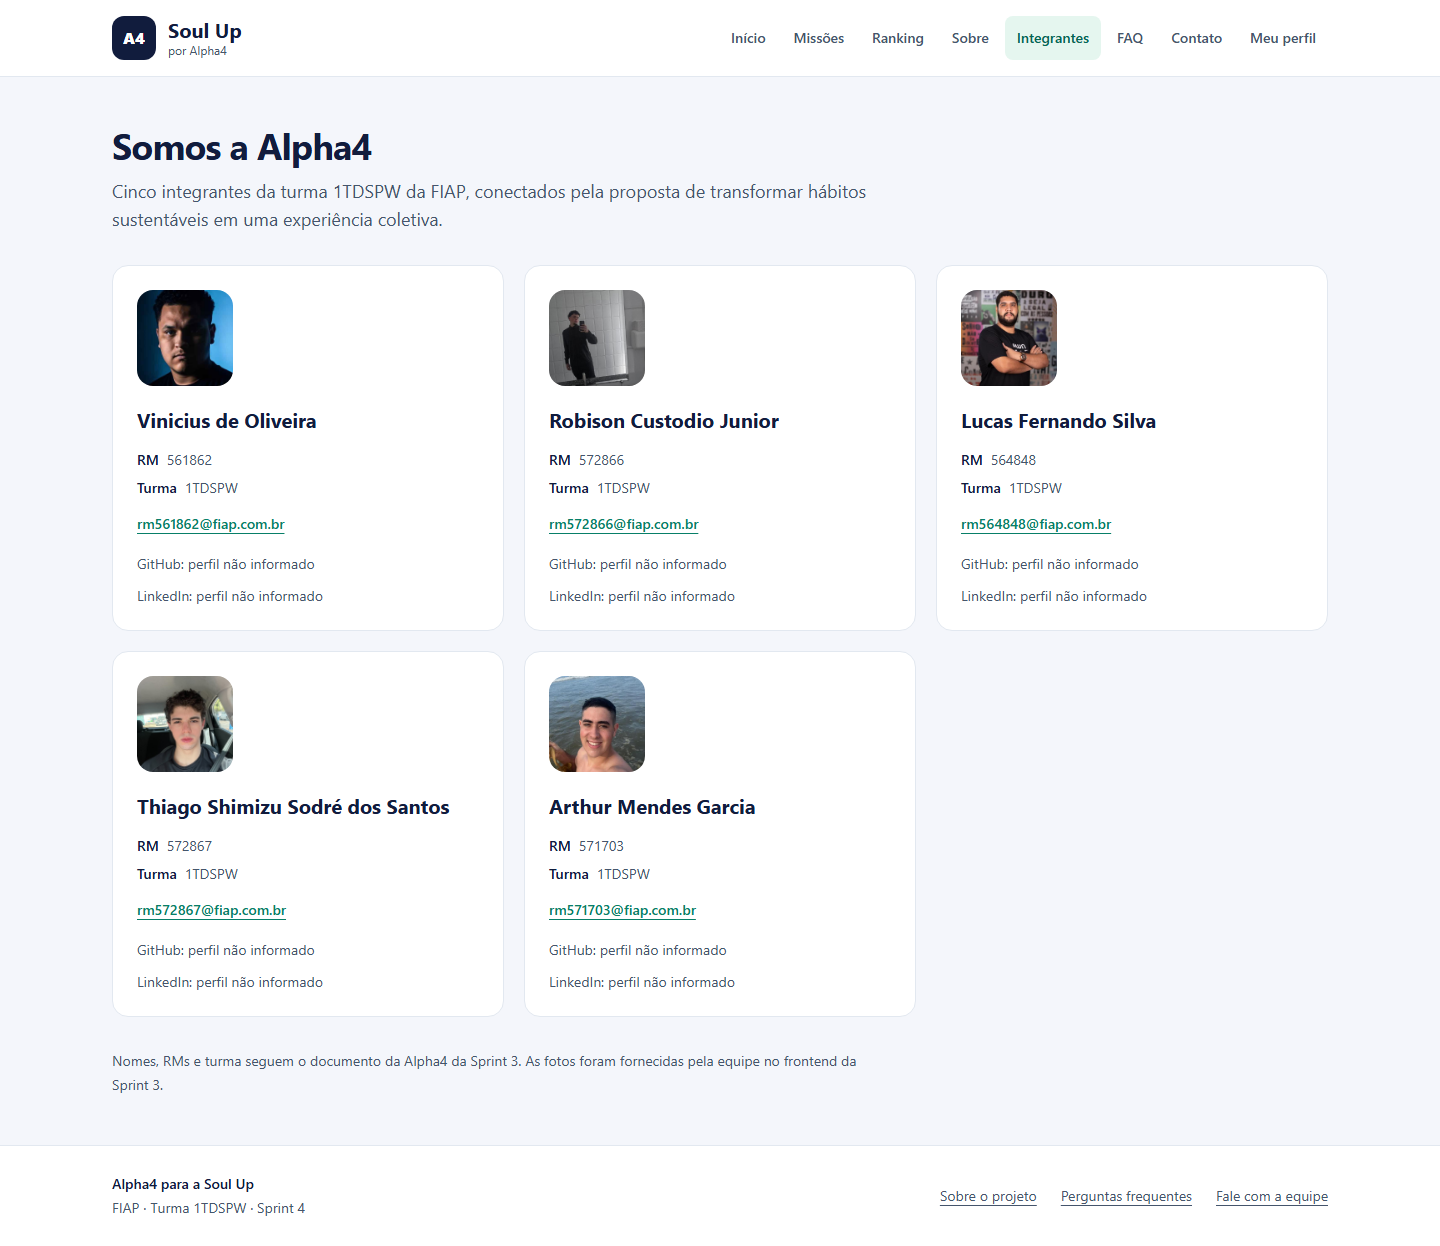
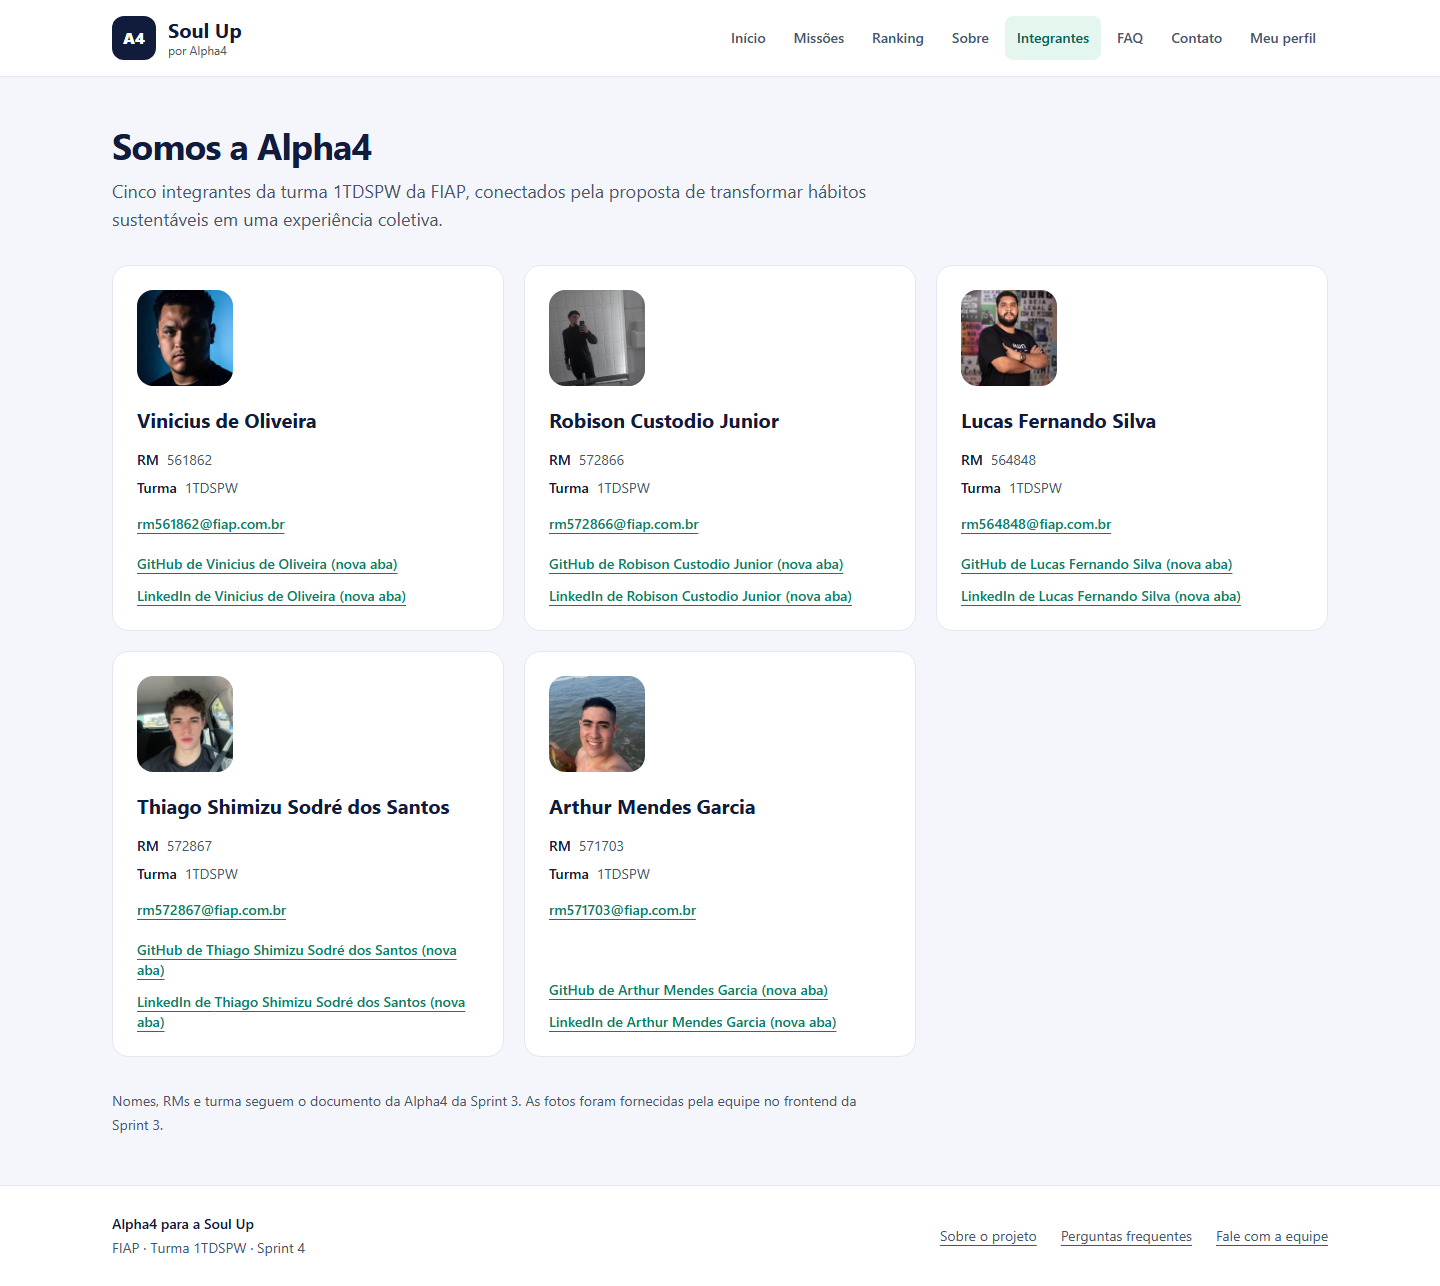
feat: adiciona links individuais dos integrantes

diff --git a/src/data/team.ts b/src/data/team.ts
@@ -15,6 +15,8 @@ export const teamMembers: [TeamMember, ...TeamMember[]] = [
     className: '1TDSPW',
     email: 'rm561862@fiap.com.br',
     photoUrl: '/images/team/vinicius.jpg',
+    githubUrl: 'https://github.com/Vinicius-0lvr',
+    linkedinUrl: 'https://www.linkedin.com/in/vinicius-oliveira-101137252/',
   },
   {
     name: 'Robison Custodio Junior',
@@ -22,6 +24,8 @@ export const teamMembers: [TeamMember, ...TeamMember[]] = [
     className: '1TDSPW',
     email: 'rm572866@fiap.com.br',
     photoUrl: '/images/team/junior.jpeg',
+    githubUrl: 'https://github.com/Junior4744',
+    linkedinUrl: 'https://www.linkedin.com/in/robinson-custodio-junior/',
   },
   {
     name: 'Lucas Fernando Silva',
@@ -29,6 +33,8 @@ export const teamMembers: [TeamMember, ...TeamMember[]] = [
     className: '1TDSPW',
     email: 'rm564848@fiap.com.br',
     photoUrl: '/images/team/lucas.jpeg',
+    githubUrl: 'https://github.com/lucas-silva8077',
+    linkedinUrl: 'https://www.linkedin.com/in/lucas-fernando-5aa8b6193/',
   },
   {
     name: 'Thiago Shimizu Sodré dos Santos',
@@ -36,6 +42,8 @@ export const teamMembers: [TeamMember, ...TeamMember[]] = [
     className: '1TDSPW',
     email: 'rm572867@fiap.com.br',
     photoUrl: '/images/team/thiago.jpeg',
+    githubUrl: 'https://github.com/thssd',
+    linkedinUrl: 'https://www.linkedin.com/in/thiagoshimizusodre/',
   },
   {
     name: 'Arthur Mendes Garcia',
@@ -43,5 +51,7 @@ export const teamMembers: [TeamMember, ...TeamMember[]] = [
     className: '1TDSPW',
     email: 'rm571703@fiap.com.br',
     photoUrl: '/images/team/arthur.jpeg',
+    githubUrl: 'https://github.com/proc0x41',
+    linkedinUrl: 'https://www.linkedin.com/in/arthur-mendes-garcia/',
   },
 ];

diff --git a/README.md b/README.md
@@ -11,8 +11,9 @@ localmente, incluindo listagem, detalhe, envio e aprovação de evidência,
 ranking, atualização e exclusão de perfil. Revisões independentes conferiram
 o código, os testes e as capturas nas diferentes resoluções.
 O grupo informou as URLs públicas do frontend e do backend. A entrega ainda
-depende da confirmação da integração pública, da URL do vídeo no YouTube e
-dos links individuais de GitHub e LinkedIn. As cinco fotos foram recuperadas
+depende da confirmação da integração pública e da URL do vídeo no YouTube.
+Os links individuais foram atualizados com os endereços indicados pelo grupo.
+As cinco fotos foram recuperadas
 do frontend da Sprint 3 fornecido pela equipe.
 
 ## Tecnologias utilizadas
@@ -152,17 +153,16 @@ docs/           contrato e fluxo de versionamento
 Todos os integrantes são da turma **1TDSPW**. Nomes e RMs seguem o documento
 `Alpha4_Sprint3.pdf`, fornecido pela equipe.
 
-| Nome completo                   | RM     | Contato              | Foto                                                                                        | GitHub        | LinkedIn      |
-| ------------------------------- | ------ | -------------------- | ------------------------------------------------------------------------------------------- | ------------- | ------------- |
-| Vinicius de Oliveira            | 561862 | rm561862@fiap.com.br | <img src="public/images/team/vinicius.jpg" width="80" alt="Vinicius de Oliveira">           | Não informado | Não informado |
-| Robison Custodio Junior         | 572866 | rm572866@fiap.com.br | <img src="public/images/team/junior.jpeg" width="80" alt="Robison Custodio Junior">         | Não informado | Não informado |
-| Lucas Fernando Silva            | 564848 | rm564848@fiap.com.br | <img src="public/images/team/lucas.jpeg" width="80" alt="Lucas Fernando Silva">             | Não informado | Não informado |
-| Thiago Shimizu Sodré dos Santos | 572867 | rm572867@fiap.com.br | <img src="public/images/team/thiago.jpeg" width="80" alt="Thiago Shimizu Sodré dos Santos"> | Não informado | Não informado |
-| Arthur Mendes Garcia            | 571703 | rm571703@fiap.com.br | <img src="public/images/team/arthur.jpeg" width="80" alt="Arthur Mendes Garcia">            | Não informado | Não informado |
+| Nome completo                   | RM     | Contato              | Foto                                                                                        | GitHub                                       | LinkedIn                                                             |
+| ------------------------------- | ------ | -------------------- | ------------------------------------------------------------------------------------------- | -------------------------------------------- | -------------------------------------------------------------------- |
+| Vinicius de Oliveira            | 561862 | rm561862@fiap.com.br | <img src="public/images/team/vinicius.jpg" width="80" alt="Vinicius de Oliveira">           | [GitHub](https://github.com/Vinicius-0lvr)   | [LinkedIn](https://www.linkedin.com/in/vinicius-oliveira-101137252/) |
+| Robison Custodio Junior         | 572866 | rm572866@fiap.com.br | <img src="public/images/team/junior.jpeg" width="80" alt="Robison Custodio Junior">         | [GitHub](https://github.com/Junior4744)      | [LinkedIn](https://www.linkedin.com/in/robinson-custodio-junior/)    |
+| Lucas Fernando Silva            | 564848 | rm564848@fiap.com.br | <img src="public/images/team/lucas.jpeg" width="80" alt="Lucas Fernando Silva">             | [GitHub](https://github.com/lucas-silva8077) | [LinkedIn](https://www.linkedin.com/in/lucas-fernando-5aa8b6193/)    |
+| Thiago Shimizu Sodré dos Santos | 572867 | rm572867@fiap.com.br | <img src="public/images/team/thiago.jpeg" width="80" alt="Thiago Shimizu Sodré dos Santos"> | [GitHub](https://github.com/thssd)           | [LinkedIn](https://www.linkedin.com/in/thiagoshimizusodre/)          |
+| Arthur Mendes Garcia            | 571703 | rm571703@fiap.com.br | <img src="public/images/team/arthur.jpeg" width="80" alt="Arthur Mendes Garcia">            | [GitHub](https://github.com/proc0x41)        | [LinkedIn](https://www.linkedin.com/in/arthur-mendes-garcia/)        |
 
-Os links individuais ainda precisam ser fornecidos antes da entrega. O projeto
-da Sprint 3 contém as fotos, mas não os perfis individuais; o link de um
-repositório não foi usado como substituto dos cinco perfis.
+As fotos vêm do projeto da Sprint 3; os endereços individuais foram indicados
+posteriormente pelo grupo.
 O histórico utiliza Conventional Commits em português, com rodízio de
 identidades locais solicitado pela equipe. Veja [GitFlow](docs/GITFLOW.md).
 

diff --git a/docs/VERIFICACAO.md b/docs/VERIFICACAO.md
@@ -46,7 +46,7 @@ e na página em mobile e desktop. O original foi preservado como referência.
 - Conferir integração pela URL pública, inclusive acesso direto às rotas.
 - Confirmar a origem da Vercel em `CORS_ORIGINS`: a última verificação retornou
   403 para essa origem, embora saúde e missões sem Origin tenham respondido 200.
-- Fornecer links individuais de GitHub e LinkedIn de todos.
+- Links individuais de GitHub e LinkedIn incluídos conforme orientação do grupo.
 - Publicar vídeo funcional da Sprint 4 com até três minutos no YouTube.
 - Gerar/revalidar ZIP final e submetê-lo exclusivamente no Portal do Aluno.
 
